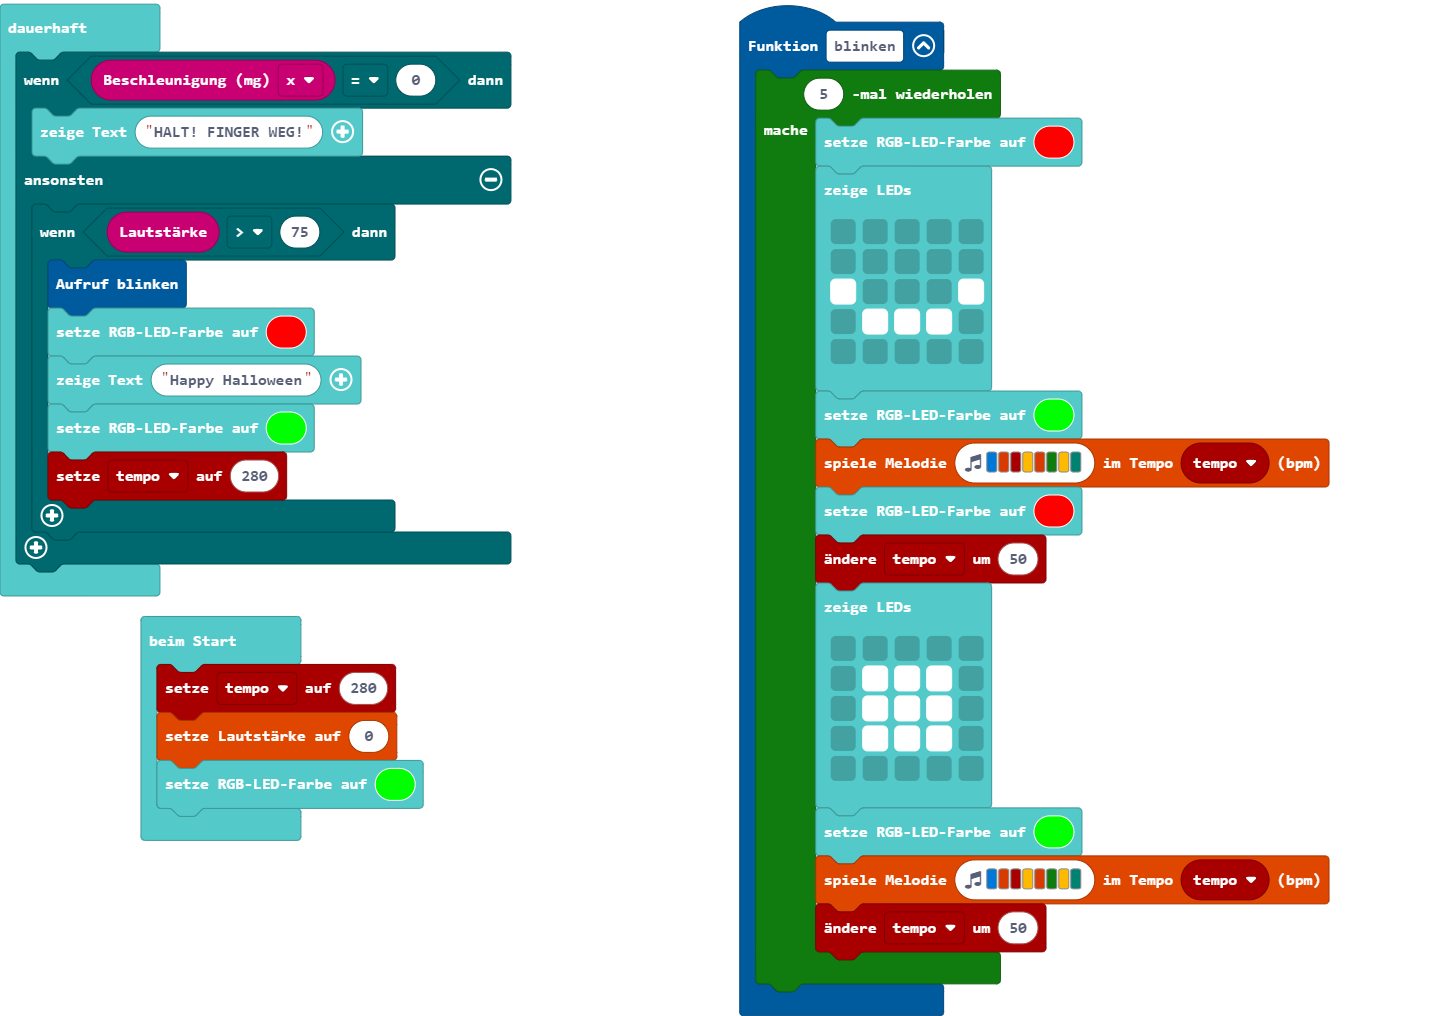
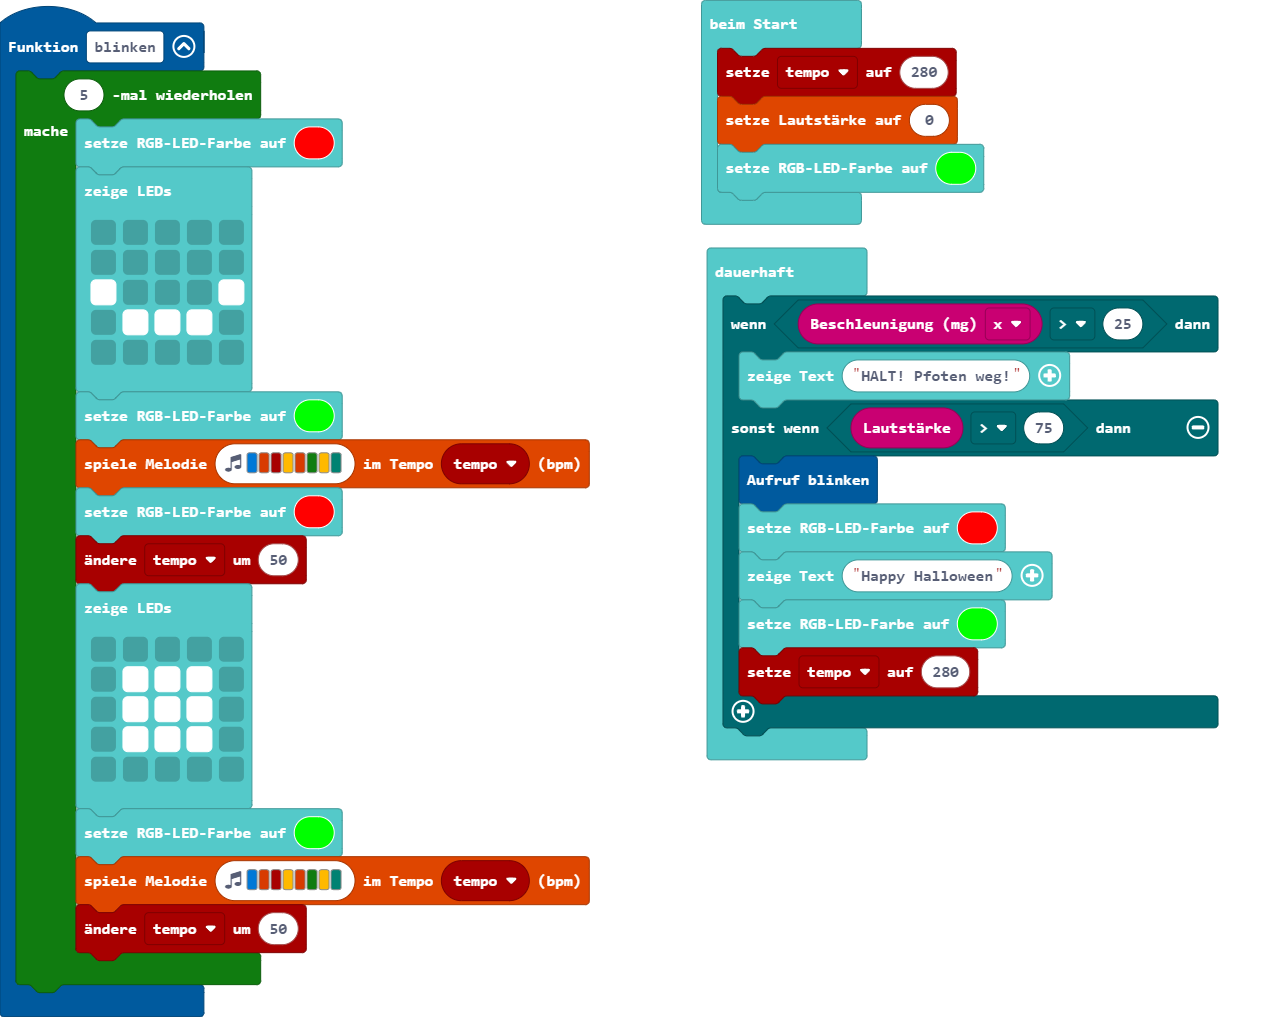
FINAL

diff --git a/main.ts b/main.ts
@@ -29,15 +29,13 @@ tempo = 280
 music.setVolume(0)
 basic.setLedColor(0x00ff00)
 basic.forever(function () {
-    if (input.acceleration(Dimension.X) == 0) {
-        basic.showString("HALT! FINGER WEG!")
-    } else {
-        if (input.soundLevel() > 75) {
-            blinken()
-            basic.setLedColor(0xff0000)
-            basic.showString("Happy Halloween")
-            basic.setLedColor(0x00ff00)
-            tempo = 280
-        }
+    if (input.acceleration(Dimension.X) > 25) {
+        basic.showString("HALT! Pfoten weg!")
+    } else if (input.soundLevel() > 75) {
+        blinken()
+        basic.setLedColor(0xff0000)
+        basic.showString("Happy Halloween")
+        basic.setLedColor(0x00ff00)
+        tempo = 280
     }
 })

diff --git a/main.py b/main.py
@@ -30,10 +30,13 @@ basic.set_led_color(0x00ff00)
 
 def on_forever():
     global tempo
-    if input.sound_level() > 75:
-        blinken()
-        basic.set_led_color(0xff0000)
-        basic.show_string("Happy Halloween")
-        basic.set_led_color(0x00ff00)
-        tempo = 280
+    if input.acceleration(Dimension.X) > 25:
+        basic.show_string("HALT! Pfoten weg!")
+    else:
+        if input.sound_level() > 75:
+            blinken()
+            basic.set_led_color(0xff0000)
+            basic.show_string("Happy Halloween")
+            basic.set_led_color(0x00ff00)
+            tempo = 280
 basic.forever(on_forever)
